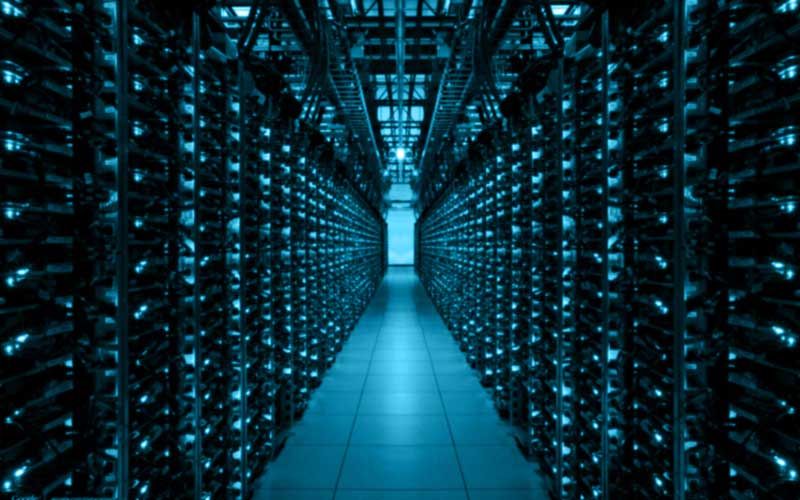
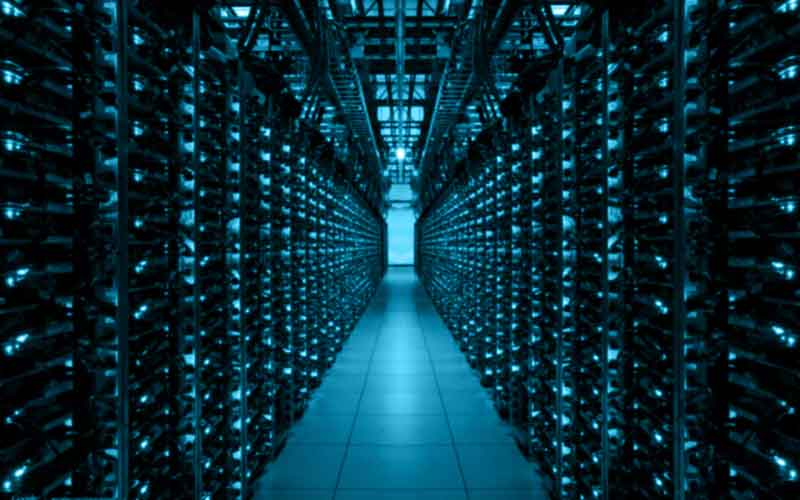
updated images for the web

Changed region(s): [[0.5625, 0.51, 0.625, 0.54], [0.5938, 0.39, 0.625, 0.42]]

diff --git a/src/data/serviceList/serviceList.js b/src/data/serviceList/serviceList.js
@@ -7,7 +7,7 @@ const services = [
     secondLine: 'product definition',
   },
   {
-    image: images.design,
+    image: images.data,
     firstLine: 'Data',
     secondLine: 'analysis',
   },
@@ -31,12 +31,6 @@ const services = [
     firstLine: 'Deployment',
     secondLine: 'and hosting',
   },
-
-  // {
-  //   image: images.support,
-  //   firstLine: 'Maintenance and support',
-  // secondLine: 'lorem',
-  // },
   {
     image: images.analytics,
     firstLine: 'Machine',

diff --git a/src/data/serviceList/images/index.js b/src/data/serviceList/images/index.js
@@ -5,8 +5,8 @@ import marketing from './marketing.jpg';
 import mvp from './mvp.jpg';
 import native from './native.jpg';
 import uxui from './uxui.jpg';
-import design from './design.jpg';
 import deployment from './deployment.jpg';
+import data from './data.jpg';
 
 const images = {
   threeD,
@@ -16,8 +16,8 @@ const images = {
   mvp,
   native,
   uxui,
-  design,
-  deployment
+  deployment,
+  data
 };
 
 export default images;
